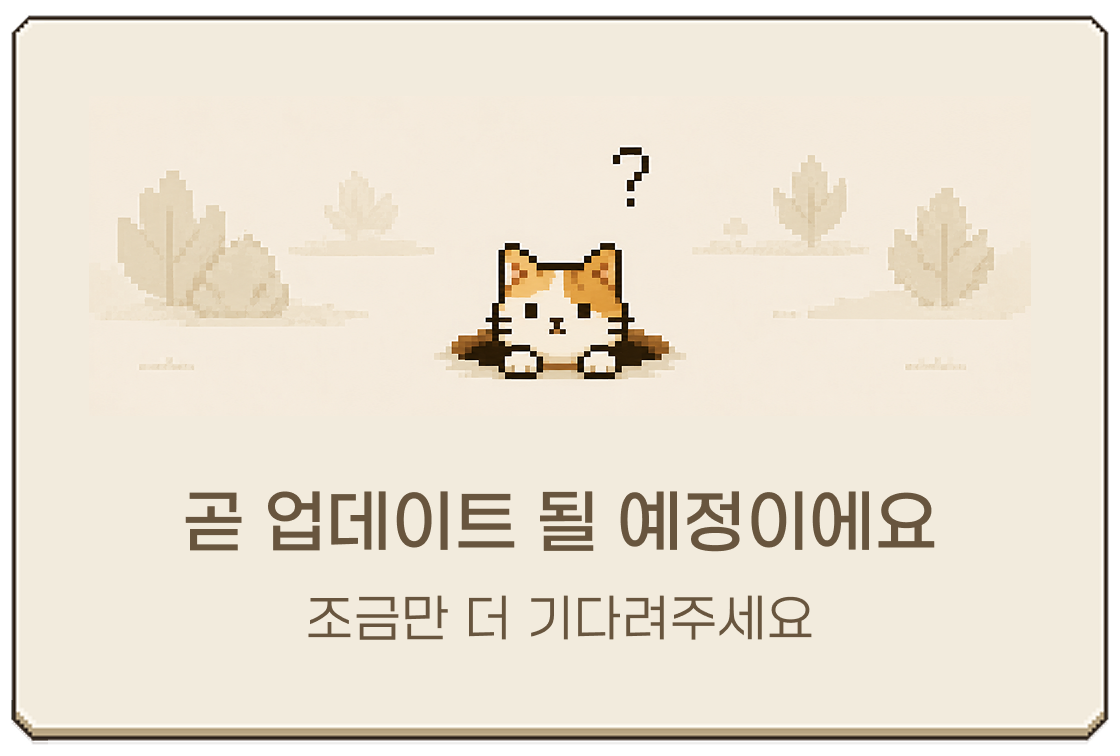
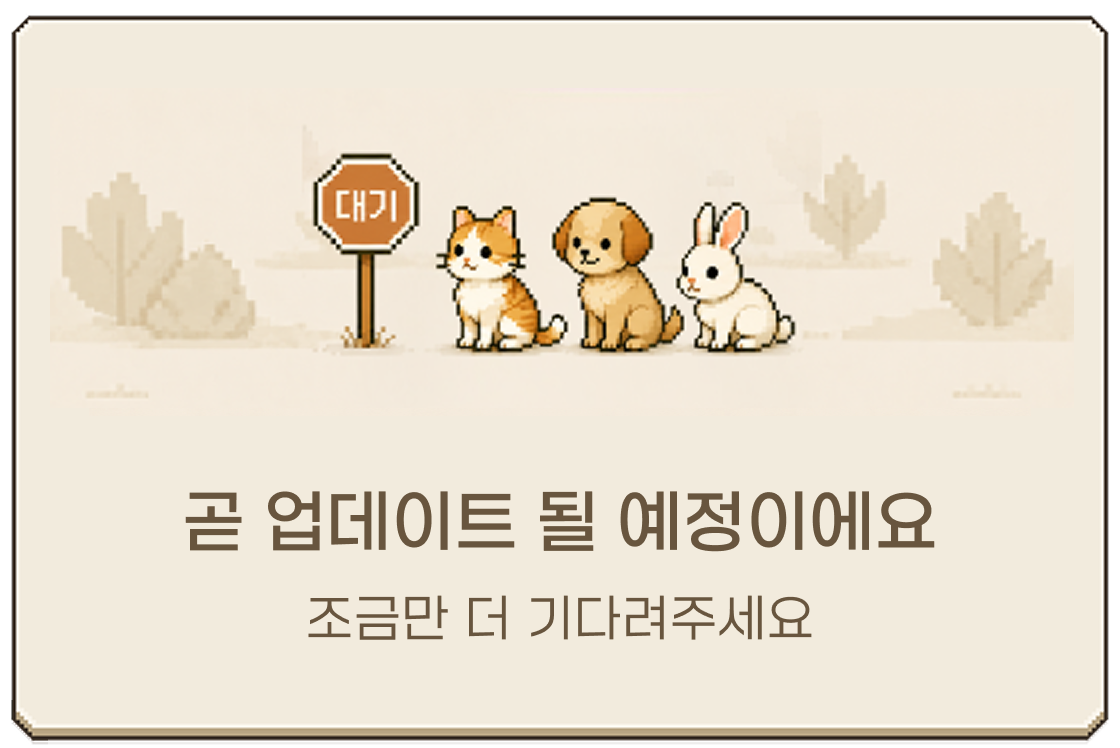
style : 대전 준비 화면 디자인 변경
- 대전 준비 안내 이미지와 발자국 배경 이미지 적용
- 안내 이미지 원본 비율에 맞춰 반응형 크기 조정

diff --git a/src/screens/battle-screen/ui/BattleScreen.tsx b/src/screens/battle-screen/ui/BattleScreen.tsx
@@ -3,10 +3,19 @@ import { Image, StyleSheet, View } from 'react-native';
 import { scaleByDeviceWidth } from '@/src/shared/lib/layout';
 
 const EMPTY_STATE_IMAGE = require('@/src/shared/assets/images/battle/empty-state.png');
+const BACKGROUND_IMAGE = require('@/src/shared/assets/images/battle/background.png');
+const EMPTY_STATE_WIDTH = scaleByDeviceWidth(280);
+const EMPTY_STATE_HEIGHT = EMPTY_STATE_WIDTH * (748 / 1120);
 
 export function BattleScreen() {
   return (
     <View style={styles.screen}>
+      <Image
+        accessible={false}
+        resizeMode="cover"
+        source={BACKGROUND_IMAGE}
+        style={styles.background}
+      />
       <Image
         accessibilityLabel="곧 업데이트 될 예정이에요. 조금만 더 기다려주세요"
         resizeMode="contain"
@@ -22,10 +31,15 @@ const styles = StyleSheet.create({
     flex: 1,
     alignItems: 'center',
     justifyContent: 'center',
-    backgroundColor: '#FFFFFF',
+    backgroundColor: '#FFF8EE',
+  },
+  background: {
+    ...StyleSheet.absoluteFillObject,
+    width: '100%',
+    height: '100%',
   },
   emptyState: {
-    width: scaleByDeviceWidth(280),
-    height: scaleByDeviceWidth(189),
+    width: EMPTY_STATE_WIDTH,
+    height: EMPTY_STATE_HEIGHT,
   },
 });
